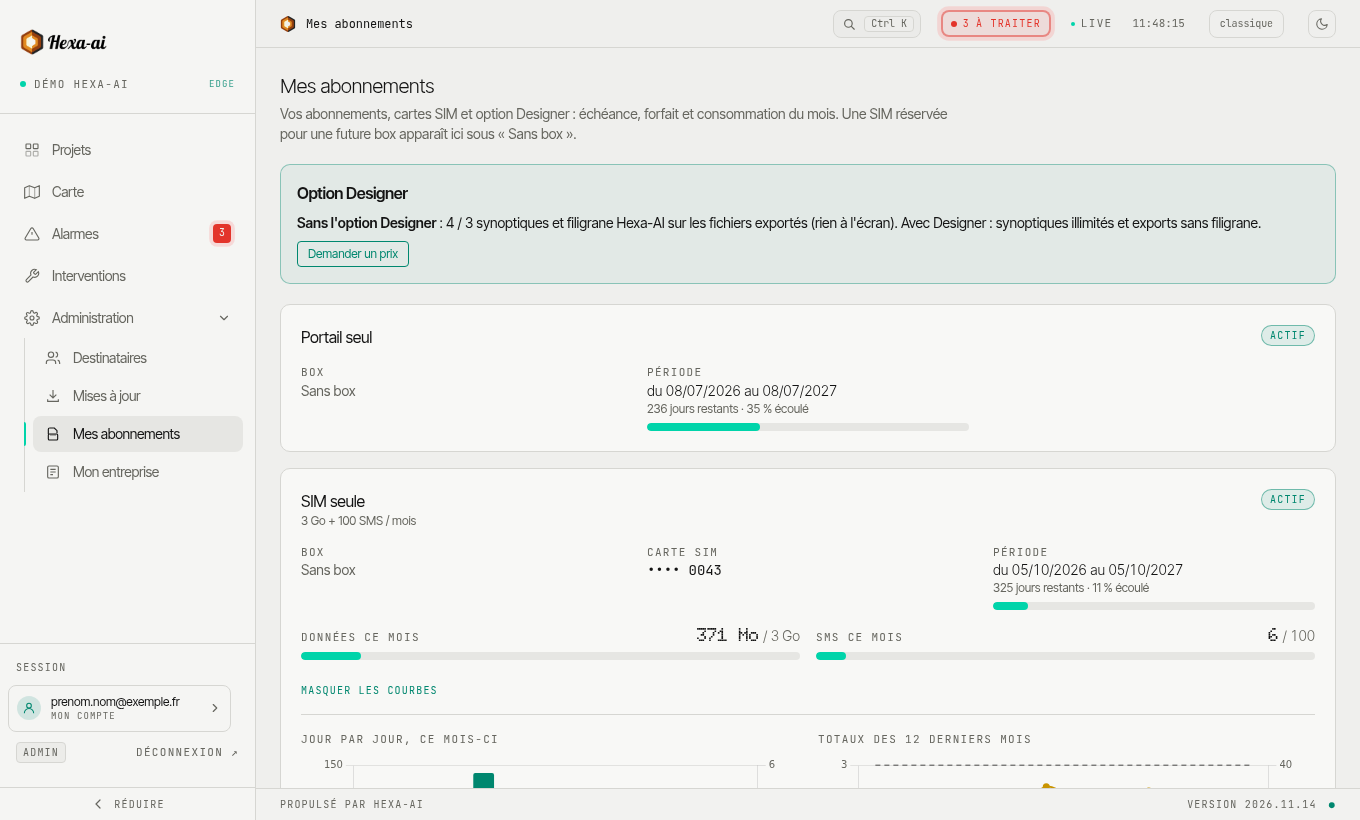
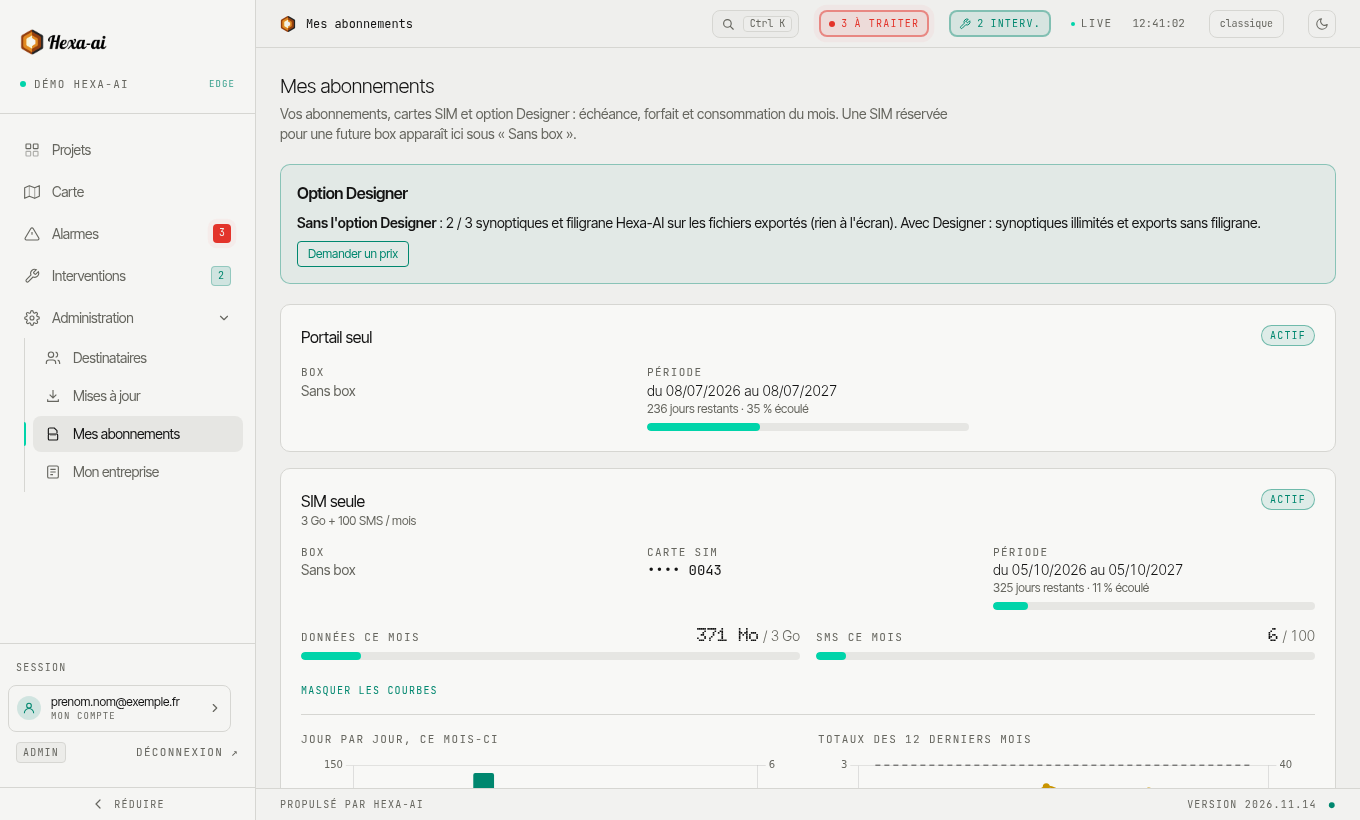
docs(portail): synoptiques de la démo ramenés à 2 / 3 : captures Synoptiques, Schémas, éditeur et Mes abonnements refaites, légende Designer

diff --git a/src/content/docs/portal/synoptics/designer.md b/src/content/docs/portal/synoptics/designer.md
@@ -25,11 +25,11 @@ Le **Designer** est l'option qui vous permet de dessiner **vos propres** synopti
 
 La limite est comptée sur l'ensemble de l'entreprise (synoptiques IHM et schémas confondus). Hexa-AI peut la modifier pour votre entreprise. Le filigrane n'est jamais ajouté **à l'écran** : seulement dans les fichiers produits.
 
-![Encart de limite atteinte](./onglet_synoptiques.png)
+![Carte Option Designer de la page Mes abonnements : 2 / 3 synoptiques](../administration/abonnements.png)
 
 ## Où voir l'état de l'option
 
-- Dans la page **Mes abonnements** : une carte **Option Designer** indique la limite et l'échéance (voir [Mes abonnements](/portal/administration/subscriptions/)).
+- Dans la page **Mes abonnements** : une carte **Option Designer** indique le nombre de synoptiques par rapport à la limite (par exemple « 2 / 3 ») et l'échéance (voir [Mes abonnements](/portal/administration/subscriptions/)).
 - Dans les onglets **Synoptiques** et **Schémas**, un encart apparaît quand la limite est atteinte.
 - Avant un export, un avis rappelle que le fichier portera le filigrane.
 

diff --git a/src/content/docs/en/portal/synoptics/designer.md b/src/content/docs/en/portal/synoptics/designer.md
@@ -25,11 +25,11 @@ The **Designer** is the option that lets you draw **your own** synoptics and dia
 
 The limit is counted across the company (HMI synoptics and diagrams together). Hexa-AI can change it for your company. The watermark is never added **on screen**, only in produced files.
 
-![Synoptics tab](../../../portal/synoptics/onglet_synoptiques.png)
+![Option Designer card on the Mes abonnements page: 2 / 3 synoptics](../../../portal/administration/abonnements.png)
 
 ## Where to see the option's status
 
-- On the **Mes abonnements** page: an **Option Designer** card shows the limit and the end date (see [My subscriptions](/en/portal/administration/subscriptions/)).
+- On the **Mes abonnements** page: an **Option Designer** card shows the number of synoptics against the limit (for example "2 / 3") and the end date (see [My subscriptions](/en/portal/administration/subscriptions/)).
 - In the **Synoptiques** and **Schémas** tabs, a banner appears when the limit is reached.
 - Before an export, a notice reminds you that the file will carry the watermark.
 
